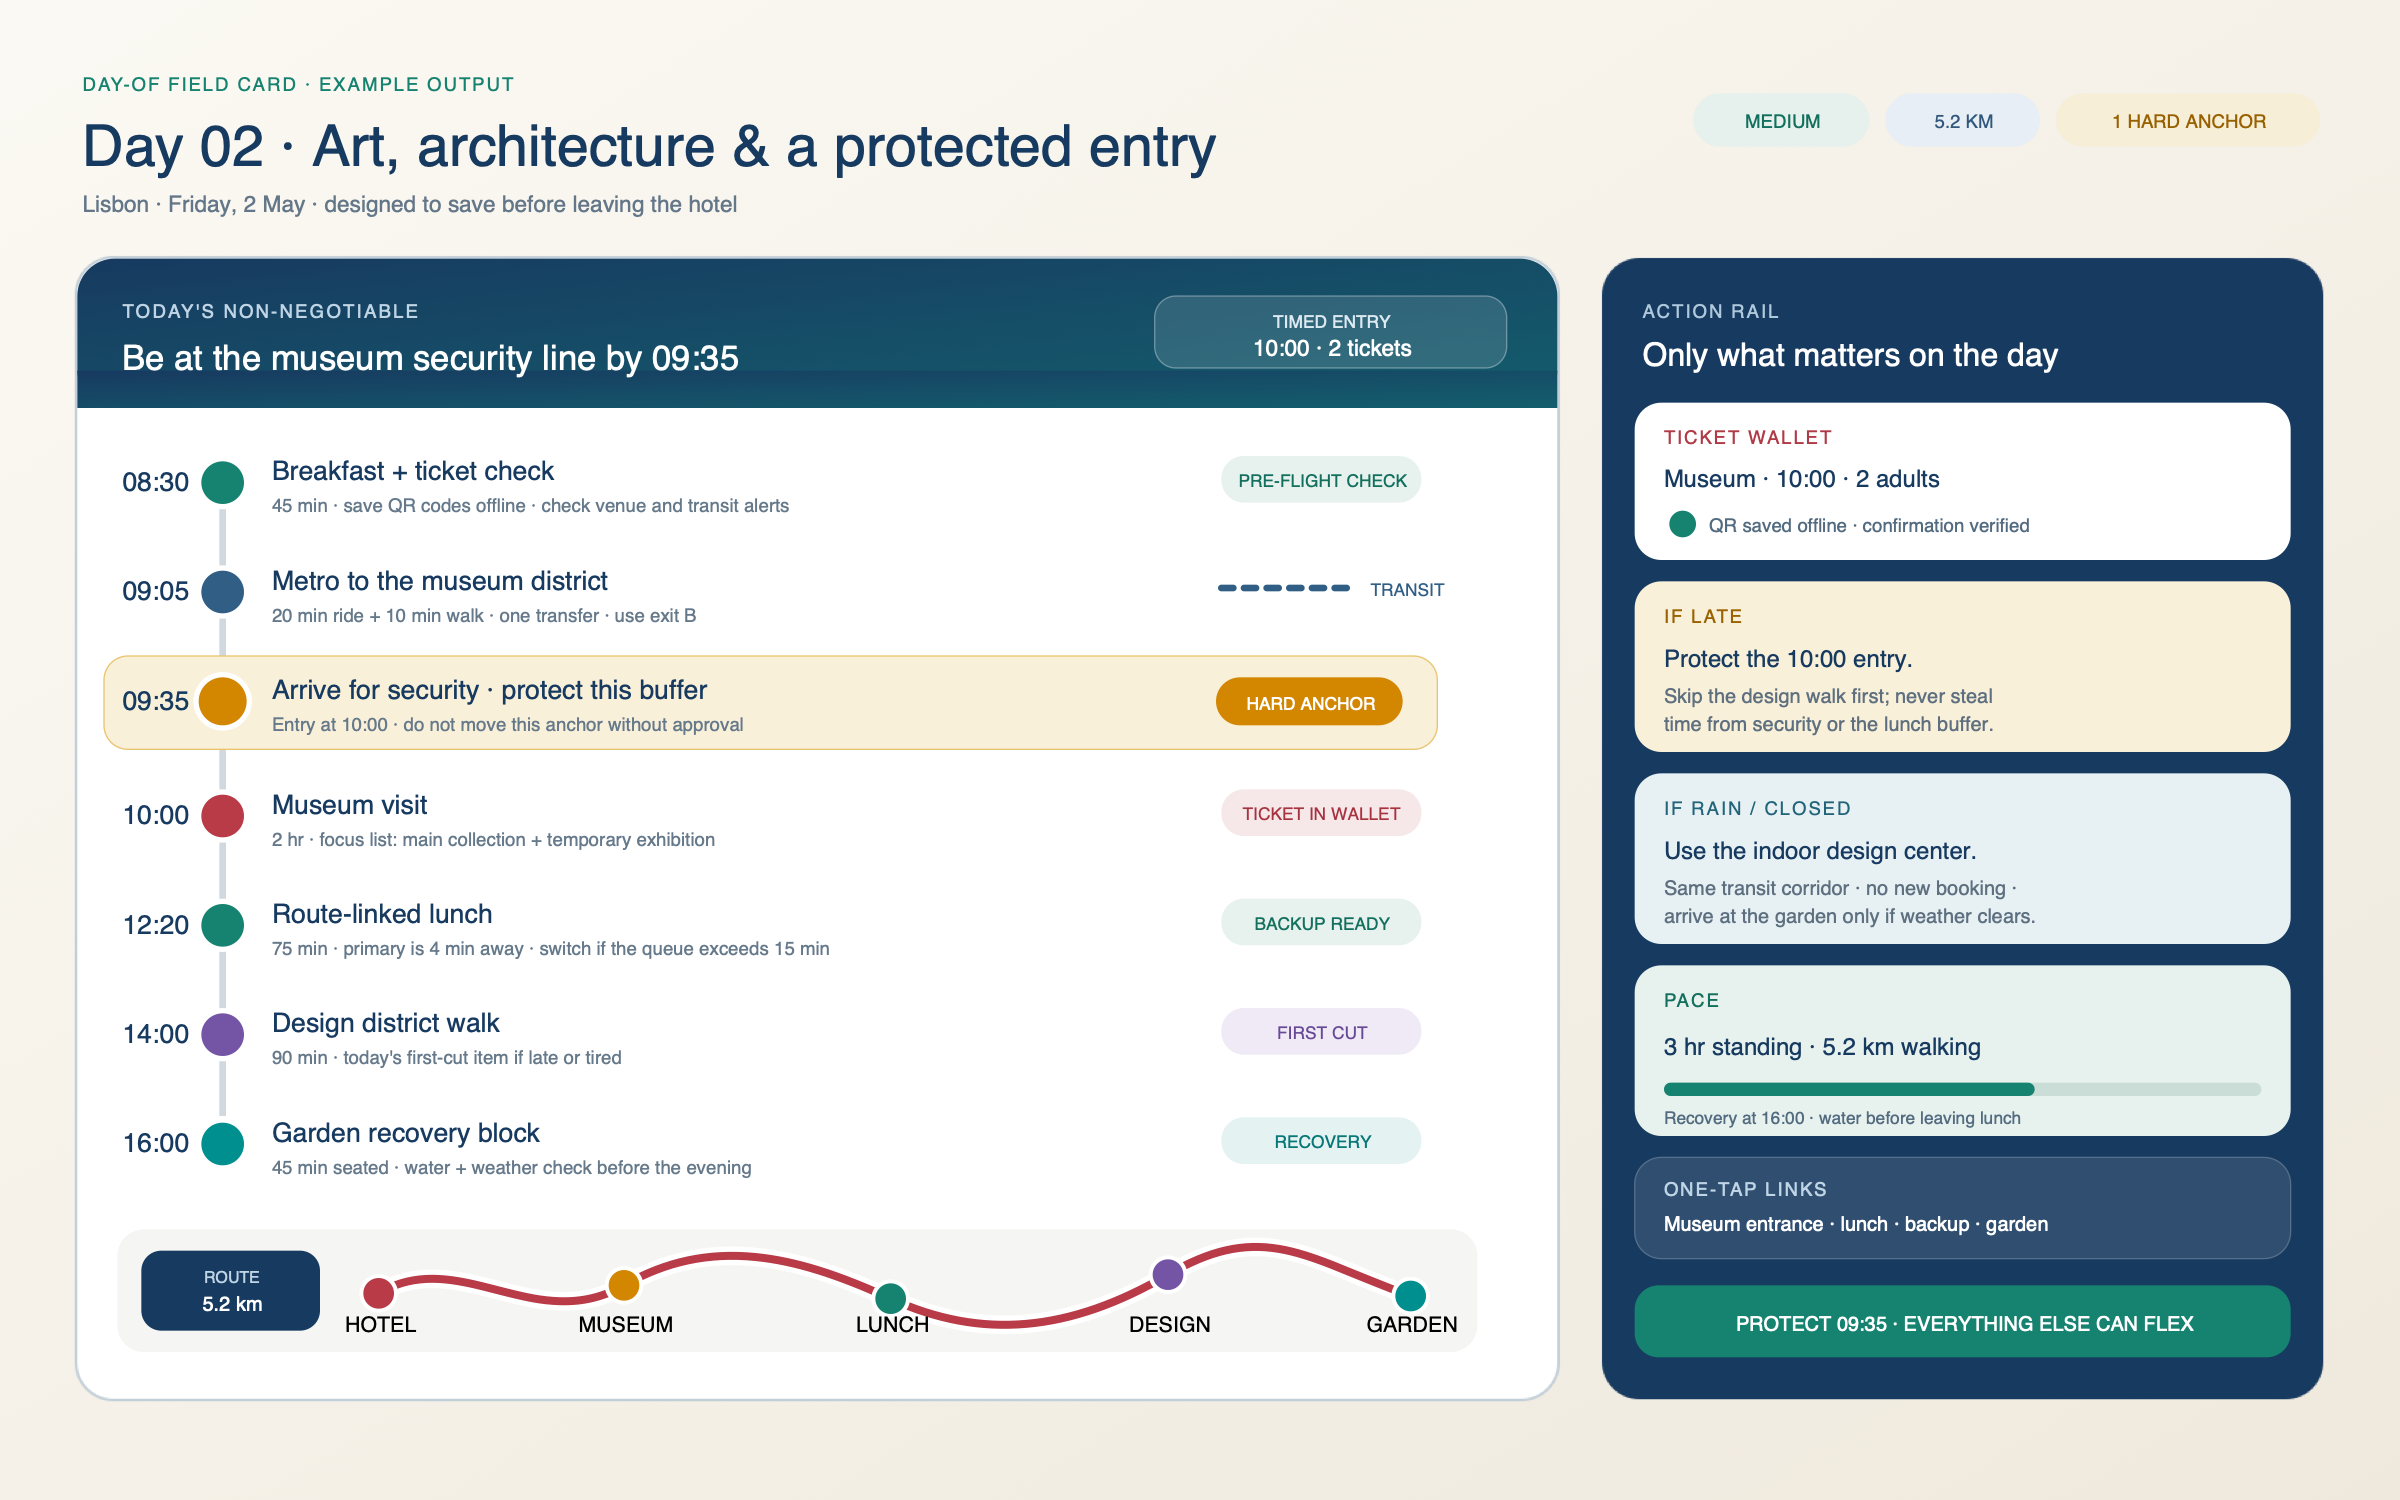
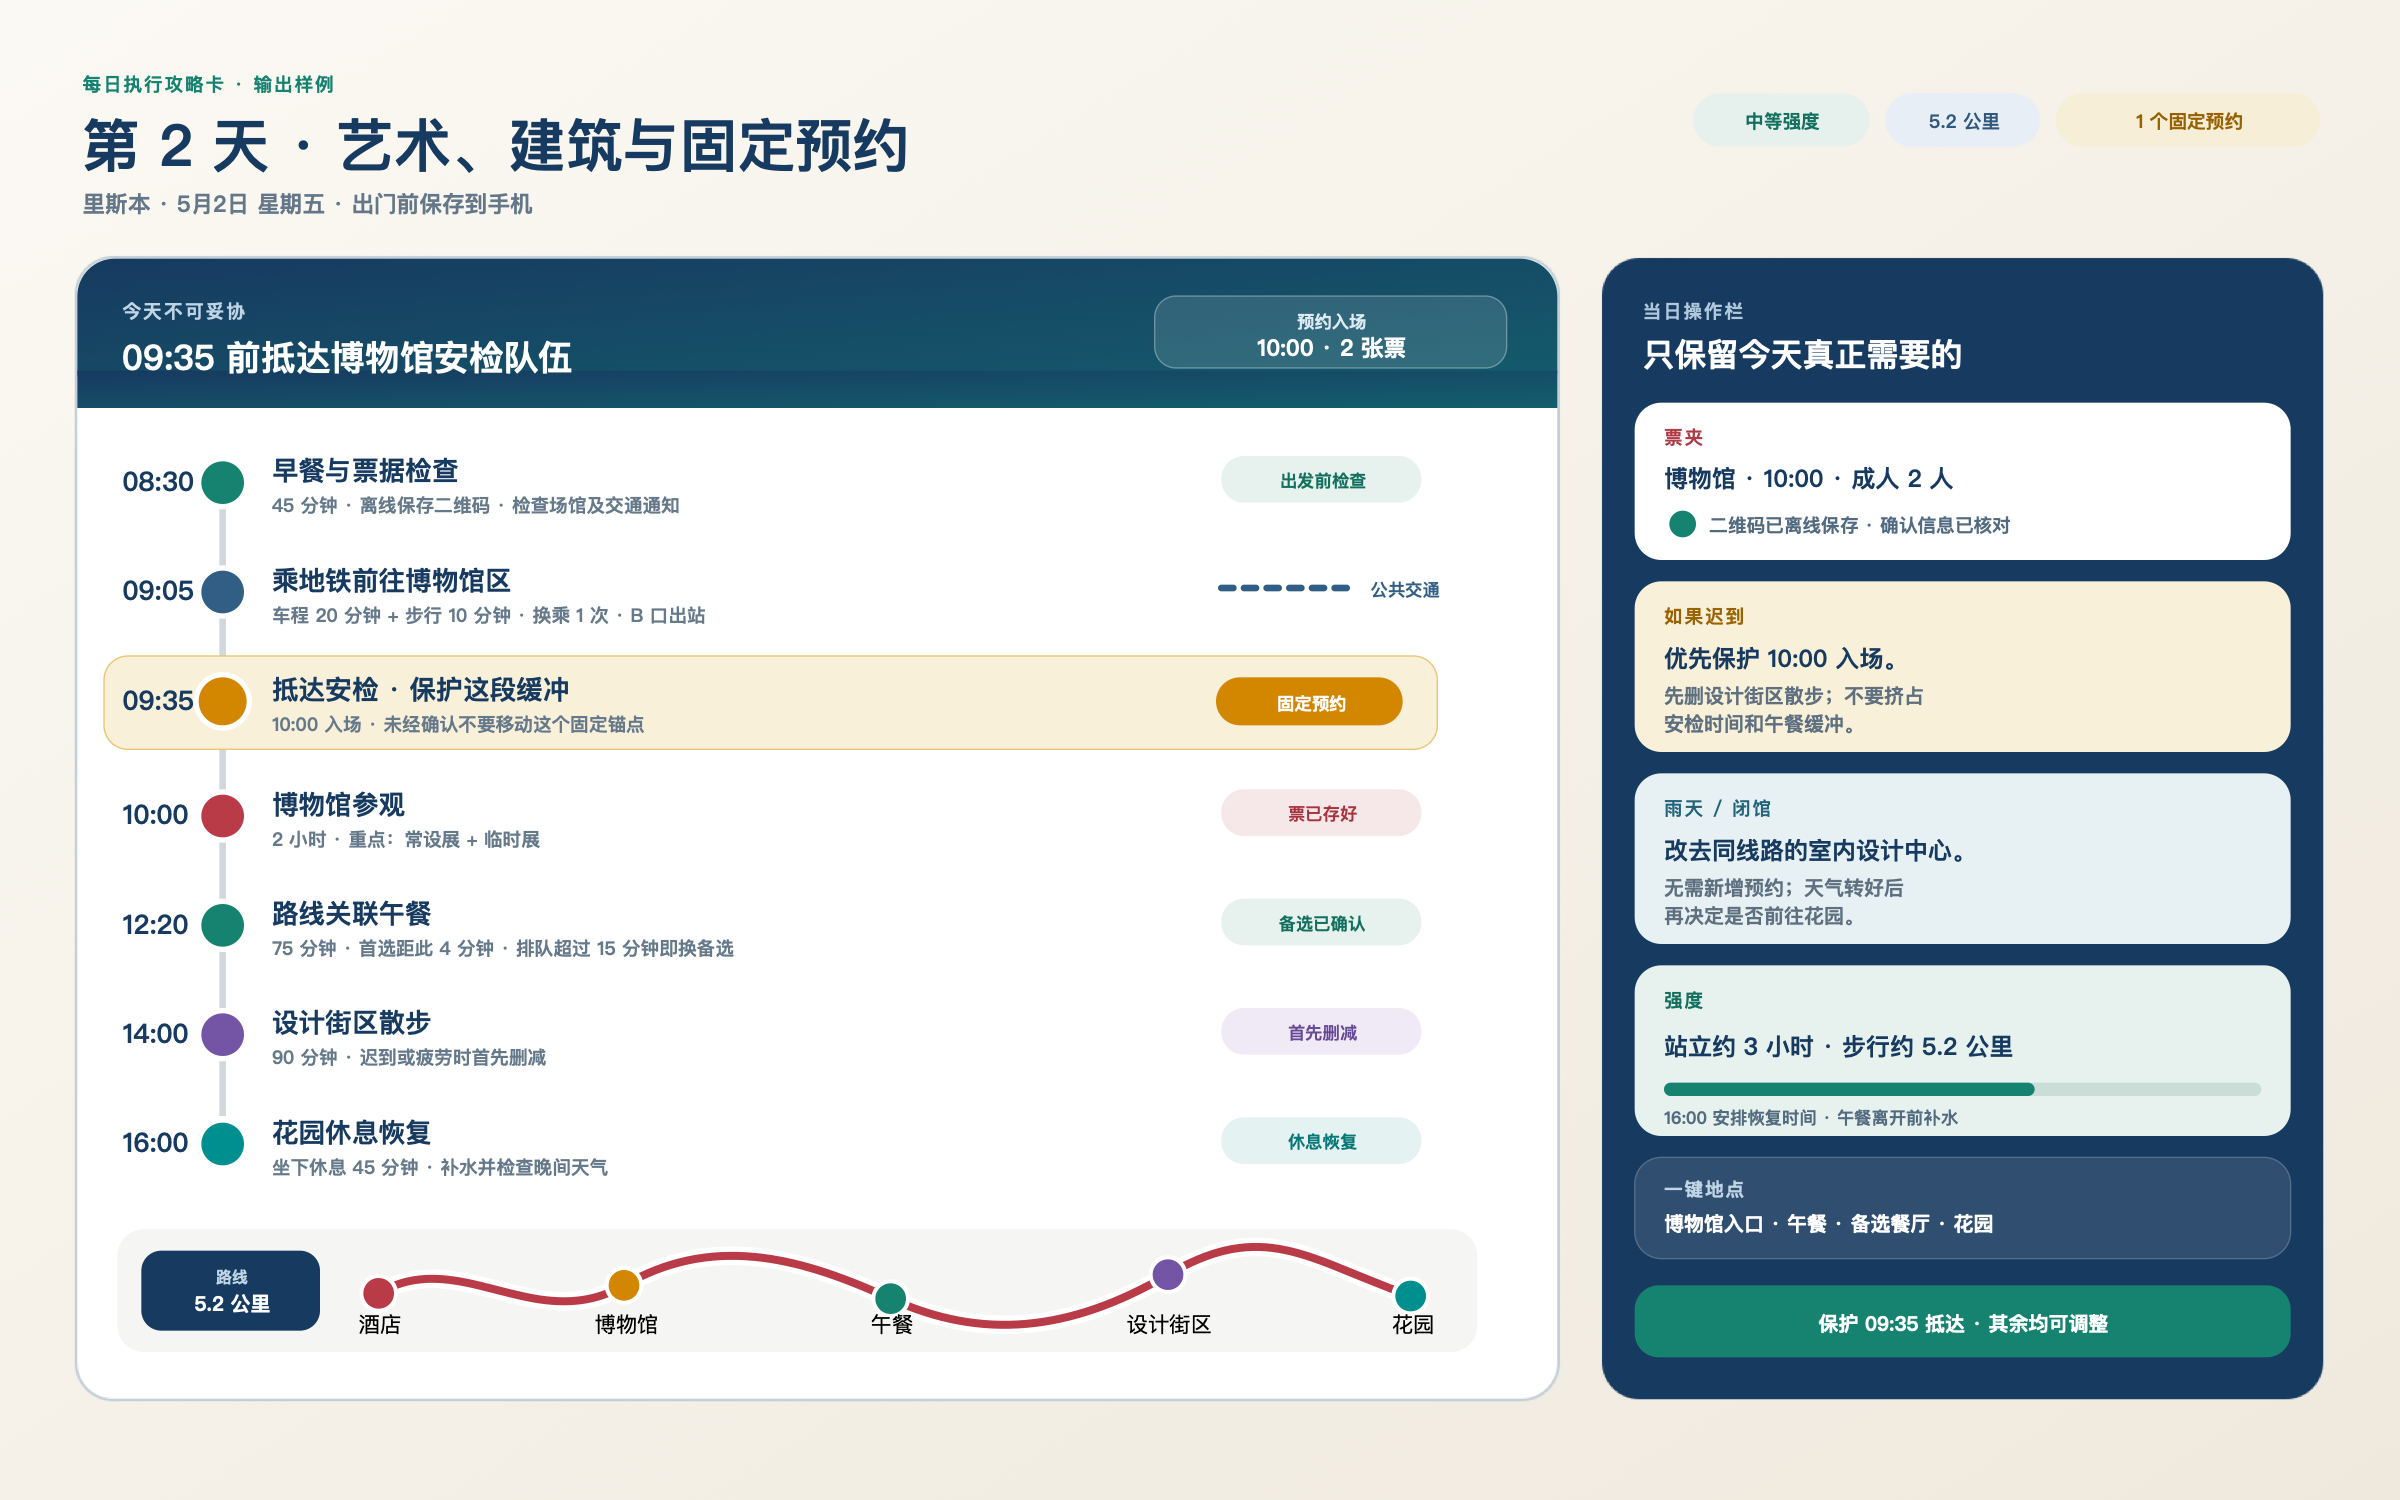
docs: localize README visuals to Chinese

diff --git a/README.md b/README.md
@@ -1,5 +1,7 @@
 <p align="center">
-  <img src="assets/readme-hero.svg" alt="Plan & Maintain Trips — from scattered ideas to an executable trip" width="100%">
+  <a href="assets/readme-hero.svg">
+    <img src="assets/readme-hero.png" alt="旅行总策划——从零散想法到可执行旅程" width="100%">
+  </a>
 </p>
 
 <h1 align="center">Plan & Maintain Trips</h1>
@@ -9,10 +11,10 @@
 </p>
 
 <p align="center">
-  <img alt="Codex Skill" src="https://img.shields.io/badge/Codex-Skill-163A63?style=flat-square">
-  <img alt="Any destination" src="https://img.shields.io/badge/Destination-Anywhere-16856B?style=flat-square">
-  <img alt="Visual field cards" src="https://img.shields.io/badge/Output-Visual%20field%20cards-D88700?style=flat-square">
-  <img alt="Multi-document publishing" src="https://img.shields.io/badge/Publish-Multi--document-7354A5?style=flat-square">
+  <img alt="Codex 旅行总策划 Skill" src="https://img.shields.io/badge/Codex-%E6%97%85%E8%A1%8C%E6%80%BB%E7%AD%96%E5%88%92-163A63?style=flat-square">
+  <img alt="目的地覆盖全球" src="https://img.shields.io/badge/%E7%9B%AE%E7%9A%84%E5%9C%B0-%E5%85%A8%E7%90%83-16856B?style=flat-square">
+  <img alt="输出每日攻略图" src="https://img.shields.io/badge/%E8%BE%93%E5%87%BA-%E6%AF%8F%E6%97%A5%E6%94%BB%E7%95%A5%E5%9B%BE-D88700?style=flat-square">
+  <img alt="支持多文档发布" src="https://img.shields.io/badge/%E5%8F%91%E5%B8%83-%E5%A4%9A%E6%96%87%E6%A1%A3-7354A5?style=flat-square">
 </p>
 
 > 不是再生成一份“景点清单”。所有日程、预约、餐厅、路线图和当天执行卡，都由同一份行程状态派生；改动一个决定，其余产物会跟着同步。
@@ -25,7 +27,7 @@
 
 <p align="center">
   <a href="assets/readme-route-sample.svg">
-    <img src="assets/readme-route-sample.png" alt="Six-day route atlas with numbered stops, day cards, distances and booking anchors" width="100%">
+    <img src="assets/readme-route-sample.png" alt="六日路线图，包含编号站点、每日路线、距离与预约锚点" width="100%">
   </a>
 </p>
 
@@ -37,7 +39,7 @@
 
 <p align="center">
   <a href="assets/readme-day-card.svg">
-    <img src="assets/readme-day-card.png" alt="Day-of travel field card with timeline, ticket wallet, route, pace and fallback decisions" width="100%">
+    <img src="assets/readme-day-card.png" alt="包含时间线、票夹、路线、强度与备选方案的每日执行攻略卡" width="100%">
   </a>
 </p>
 
@@ -54,7 +56,7 @@
 
 <p align="center">
   <a href="assets/readme-publishing.svg">
-    <img src="assets/readme-publishing.png" alt="One canonical trip project publishing to Feishu Lark, Markdown, Notion, Google Docs, DOCX and PDF" width="100%">
+    <img src="assets/readme-publishing.png" alt="一份旅行项目发布到飞书、Markdown、Notion、Google Docs、DOCX 和 PDF" width="100%">
   </a>
 </p>
 
@@ -169,6 +171,7 @@ plan-and-maintain-trips/
 │   ├── trip.example.json
 │   ├── route.example.json
 │   ├── guide-template.md
+│   ├── readme-hero.{png,svg}
 │   ├── readme-route-sample.{png,svg}
 │   ├── readme-day-card.{png,svg}
 │   └── readme-publishing.{png,svg}
@@ -197,6 +200,6 @@ plan-and-maintain-trips/
 ---
 
 <p align="center">
-  <strong>Plan beautifully. Book deliberately. Travel calmly.</strong><br>
-  <sub>漂亮地规划，克制地预约，从容地出发。</sub>
+  <strong>漂亮地规划，克制地预约，从容地出发。</strong><br>
+  <sub>Plan beautifully. Book deliberately. Travel calmly.</sub>
 </p>
